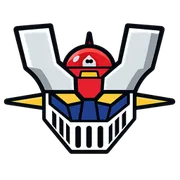
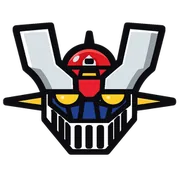
Mazinger Z: half-circle eyes and thicker outlines (edited directly)
Claude-Session: https://claude.ai/code/session_019QwctBLnb4UTXMJBnbargq

Changed region(s): [[0.0, 0.1111, 1.0, 0.8611]]

diff --git a/index.html b/index.html
@@ -2078,7 +2078,7 @@ const faceHTML = (e, who = 'suit') => FACE_ART[who][e] || FACE_ART.suit[e] || e;
 // 같은 그림이 여러 개 있어도 박자가 겹치지 않게 시작점을 흩뜨림
 // 그림을 다시 그려도 폰에 남은 옛 그림이 보이지 않게 주소에 버전을 붙임
 // 파일마다 내용이 바뀔 때만 새로 받도록 파일 해시를 붙임 (빌드할 때 채움)
-const ART_HASH = {"tile-gundam-a.png": "41a00219", "ind-school-a.png": "1b0fc977", "robot-cobot-cook-b.png": "3f739fa6", "tile-tool-a.png": "f174149f", "tile-made-a.png": "d557ba97", "ind-training-b.png": "0efc1d0b", "robot-qarm-a.png": "901f7afc", "tile-legs-b.png": "c0299b41", "tile-union-b.png": "b3a03a42", "tile-mgodz-b.png": "64821f9c", "robot-indus-b.png": "4a7cabef", "face-cook-frown.png": "e01a4907", "face-cook-neutral.png": "71441525", "ind-battery-b.png": "6e2bd18d", "ind-fire-a.png": "a71484d3", "face-trump-neutral.png": "5aecac90", "tile-legs-a.png": "2faadad6", "face-worker-angry.png": "eb6b88ed", "ind-steel-a.png": "0f070238", "face-suitf-delight.png": "d729900f", "tile-iarm-a.png": "fc127d92", "ind-steel-b.png": "e122612f", "ind-defense-b.png": "5aa959f1", "face-cook-angry.png": "50c65318", "ind-port-b.png": "6f5dc395", "tile-tf-a.png": "d2bc0939", "ind-factory-a.png": "909659fd", "tile-grendizer-b.png": "c84e6170", "tile-term-b.png": "fa8e5b3f", "face-neutral.png": "a9a959b5", "tile-wheel-a.png": "9e98ebac", "face-cook-smile.png": "be9219e0", "robot-indus-a.png": "ba4c70bc", "tile-korea-b.png": "ebe1008b", "face-trump-tear.png": "21d22245", "tile-auto-b.png": "bb58686e", "ind-material-b.png": "a8f27197", "tile-korea-a.png": "d1987f19", "tile-union-a.png": "d48507d4", "ind-auto-a.png": "9a8abf4f", "tile-taekwonv-b.png": "0c7df26c", "face-frown.png": "26865767", "robot-centaur-a.png": "a9e1e03b", "tile-auto-a.png": "e7100d25", "robot-cobot-cook-a.png": "2acb022c", "face-worker-tear.png": "940dcfc3", "ind-autoparts-b.png": "a5dbd76a", "face-suitf-angry.png": "5b24ceb5", "tile-iarm-b.png": "f0647318", "face-suitf-tear.png": "d0923069", "robot-centaur-b.png": "848f1932", "robot-mm-a.png": "e5da97cf", "ind-defense-a.png": "23a0651c", "robot-quad-a.png": "1e1384cf", "ind-autoparts-a.png": "26dcf7ce", "tile-eva-b.png": "b64d5546", "face-cook-tear.png": "d529800c", "tile-gundam-b.png": "69722c17", "face-trump-delight.png": "e41c1f7d", "face-angry.png": "8542c3c5", "tile-floor-b.png": "7bfb4d09", "face-suitf-smile.png": "2bfa949d", "ind-material-a.png": "2c67685e", "tile-mazinger-a.png": "e80171dc", "tile-term-a.png": "f86a988f", "tile-eva-a.png": "48055f29", "tile-hum-a.png": "cdc85433", "ind-port-a.png": "0e5340b9", "ind-police-a.png": "717025fa", "wheel-tilt-ref.png": "4a1e31a2", "robot-cobot-a.png": "bb066d5e", "tile-mazinger-b.png": "6bc89bc9", "face-trump-angry.png": "6fc0cf6d", "tile-wheel-b.png": "df5d2104", "indus-ref.png": "2bfe4680", "face-worker-neutral.png": "f4f1ff96", "robot-amr-a.png": "21455470", "face-delight.png": "4b63238d", "face-trump-frown.png": "4102f723", "robot-mm-b.png": "41cc89c7", "ind-fire-b.png": "c530534e", "ind-police-b.png": "750b1169", "ind-ess-b.png": "c7fac005", "ind-training-a.png": "a9fe00e5", "tile-mgodz-a.png": "36243d52", "tile-tf-b.png": "23f3efda", "ind-aircraft-a.png": "53a6b218", "ind-school-b.png": "a14af652", "tile-arm-b.png": "6cb9dab3", "tile-taekwonv-a.png": "0c7df26c", "face-worker-delight.png": "56fdb189", "face-worker-smile.png": "7eaefd7c", "robot-quad-b.png": "9b27fe7b", "ind-chicken-a.png": "bd4bc4e3", "face-cook-delight.png": "5ceb20b0", "ind-battery-a.png": "2ead7359", "robot-agv-b.png": "397f8942", "face-tear.png": "7cacead6", "face-suitf-neutral.png": "b29259fe", "ind-auto-b.png": "f90715bb", "ind-shipyard-a.png": "7c43481e", "tile-grendizer-a.png": "d248d9c5", "tile-tool-b.png": "c8c8a23a", "ind-factory-b.png": "b9dfaab4", "ind-chicken-b.png": "b4930a6b", "ind-shipyard-b.png": "098fdbae", "robot-qarm-b.png": "abd9a737", "tile-arm-a.png": "cd420a51", "tile-made-b.png": "7077aabd", "tile-floor-a.png": "14074a30", "robot-cobot-weld-a.png": "da53987b", "robot-agv-a.png": "ee67b65c", "ind-logistics-b.png": "9c5aeeca", "face-smile.png": "786eeb95", "face-worker-frown.png": "0f8d8086", "robot-cobot-weld-b.png": "a9e69108", "robot-amr-b.png": "09f47fab", "tile-hum-b.png": "01ca7c8b", "ind-ess-a.png": "83fff111", "face-suitf-frown.png": "1236f440", "ind-aircraft-b.png": "6afa5f2a", "face-trump-smile.png": "03674df8", "robot-cobot-b.png": "7ea58bc1", "ind-logistics-a.png": "b1b04f38"};
+const ART_HASH = {"tile-gundam-a.png": "41a00219", "ind-school-a.png": "1b0fc977", "robot-cobot-cook-b.png": "3f739fa6", "tile-tool-a.png": "f174149f", "tile-made-a.png": "d557ba97", "ind-training-b.png": "0efc1d0b", "robot-qarm-a.png": "901f7afc", "tile-legs-b.png": "c0299b41", "tile-union-b.png": "b3a03a42", "tile-mgodz-b.png": "64821f9c", "robot-indus-b.png": "4a7cabef", "face-cook-frown.png": "e01a4907", "face-cook-neutral.png": "71441525", "ind-battery-b.png": "6e2bd18d", "ind-fire-a.png": "a71484d3", "face-trump-neutral.png": "5aecac90", "tile-legs-a.png": "2faadad6", "face-worker-angry.png": "eb6b88ed", "ind-steel-a.png": "0f070238", "face-suitf-delight.png": "d729900f", "tile-iarm-a.png": "fc127d92", "ind-steel-b.png": "e122612f", "ind-defense-b.png": "5aa959f1", "face-cook-angry.png": "50c65318", "ind-port-b.png": "6f5dc395", "tile-tf-a.png": "d2bc0939", "ind-factory-a.png": "909659fd", "tile-grendizer-b.png": "c84e6170", "tile-term-b.png": "fa8e5b3f", "face-neutral.png": "a9a959b5", "tile-wheel-a.png": "9e98ebac", "face-cook-smile.png": "be9219e0", "robot-indus-a.png": "ba4c70bc", "tile-korea-b.png": "ebe1008b", "face-trump-tear.png": "21d22245", "tile-auto-b.png": "bb58686e", "ind-material-b.png": "a8f27197", "tile-korea-a.png": "d1987f19", "tile-union-a.png": "d48507d4", "ind-auto-a.png": "9a8abf4f", "tile-taekwonv-b.png": "0c7df26c", "face-frown.png": "26865767", "robot-centaur-a.png": "a9e1e03b", "tile-auto-a.png": "e7100d25", "robot-cobot-cook-a.png": "2acb022c", "face-worker-tear.png": "940dcfc3", "ind-autoparts-b.png": "a5dbd76a", "face-suitf-angry.png": "5b24ceb5", "tile-iarm-b.png": "f0647318", "face-suitf-tear.png": "d0923069", "robot-centaur-b.png": "848f1932", "robot-mm-a.png": "e5da97cf", "ind-defense-a.png": "23a0651c", "robot-quad-a.png": "1e1384cf", "ind-autoparts-a.png": "26dcf7ce", "tile-eva-b.png": "b64d5546", "face-cook-tear.png": "d529800c", "tile-gundam-b.png": "69722c17", "face-trump-delight.png": "e41c1f7d", "face-angry.png": "8542c3c5", "tile-floor-b.png": "7bfb4d09", "face-suitf-smile.png": "2bfa949d", "ind-material-a.png": "2c67685e", "tile-mazinger-a.png": "f8d55f95", "tile-term-a.png": "f86a988f", "tile-eva-a.png": "48055f29", "tile-hum-a.png": "cdc85433", "ind-port-a.png": "0e5340b9", "ind-police-a.png": "717025fa", "wheel-tilt-ref.png": "4a1e31a2", "robot-cobot-a.png": "bb066d5e", "tile-mazinger-b.png": "fe005cf8", "face-trump-angry.png": "6fc0cf6d", "tile-wheel-b.png": "df5d2104", "indus-ref.png": "2bfe4680", "face-worker-neutral.png": "f4f1ff96", "robot-amr-a.png": "21455470", "face-delight.png": "4b63238d", "face-trump-frown.png": "4102f723", "robot-mm-b.png": "41cc89c7", "ind-fire-b.png": "c530534e", "ind-police-b.png": "750b1169", "ind-ess-b.png": "c7fac005", "ind-training-a.png": "a9fe00e5", "tile-mgodz-a.png": "36243d52", "tile-tf-b.png": "23f3efda", "ind-aircraft-a.png": "53a6b218", "ind-school-b.png": "a14af652", "tile-arm-b.png": "6cb9dab3", "tile-taekwonv-a.png": "0c7df26c", "face-worker-delight.png": "56fdb189", "face-worker-smile.png": "7eaefd7c", "robot-quad-b.png": "9b27fe7b", "ind-chicken-a.png": "bd4bc4e3", "face-cook-delight.png": "5ceb20b0", "ind-battery-a.png": "2ead7359", "robot-agv-b.png": "397f8942", "face-tear.png": "7cacead6", "face-suitf-neutral.png": "b29259fe", "ind-auto-b.png": "f90715bb", "ind-shipyard-a.png": "7c43481e", "tile-grendizer-a.png": "d248d9c5", "tile-tool-b.png": "c8c8a23a", "ind-factory-b.png": "b9dfaab4", "ind-chicken-b.png": "b4930a6b", "ind-shipyard-b.png": "098fdbae", "robot-qarm-b.png": "abd9a737", "tile-arm-a.png": "cd420a51", "tile-made-b.png": "7077aabd", "tile-floor-a.png": "14074a30", "robot-cobot-weld-a.png": "da53987b", "robot-agv-a.png": "ee67b65c", "ind-logistics-b.png": "9c5aeeca", "face-smile.png": "786eeb95", "face-worker-frown.png": "0f8d8086", "robot-cobot-weld-b.png": "a9e69108", "robot-amr-b.png": "09f47fab", "tile-hum-b.png": "01ca7c8b", "ind-ess-a.png": "83fff111", "face-suitf-frown.png": "1236f440", "ind-aircraft-b.png": "6afa5f2a", "face-trump-smile.png": "03674df8", "robot-cobot-b.png": "7ea58bc1", "ind-logistics-a.png": "b1b04f38"};
 // 게임에서는 가벼운 webp(assets/w/)를 씀. 파일 이름은 png와 같고 확장자만 다름
 const av = f => { const n = f.replace('assets/', ''); return `assets/w/${n.replace(/\.png$/, '.webp')}?v=${ART_HASH[n] || '0'}`; };
 // 업종 아이콘(ind-)은 a프레임만, 로봇·부품은 a·b를 번갈아 (팔이 까딱, 다리가 제자리걸음 등)
@@ -2453,7 +2453,7 @@ function banner(text, delay) {
 }
 
 // ───────── 진행 ─────────
-const BUILD_V = '1003-224148';
+const BUILD_V = '1003-224506';
 function loop(t) {
   const dt = Math.min(0.1, (t - (S.last || t)) / 1000);
   S.last = t;
